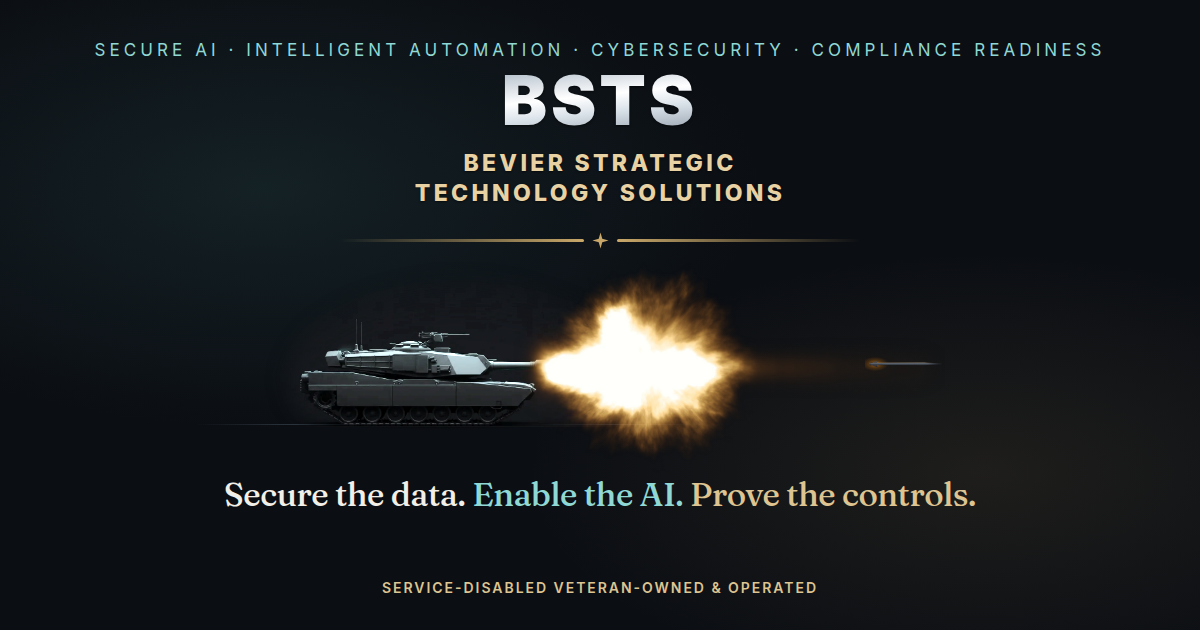
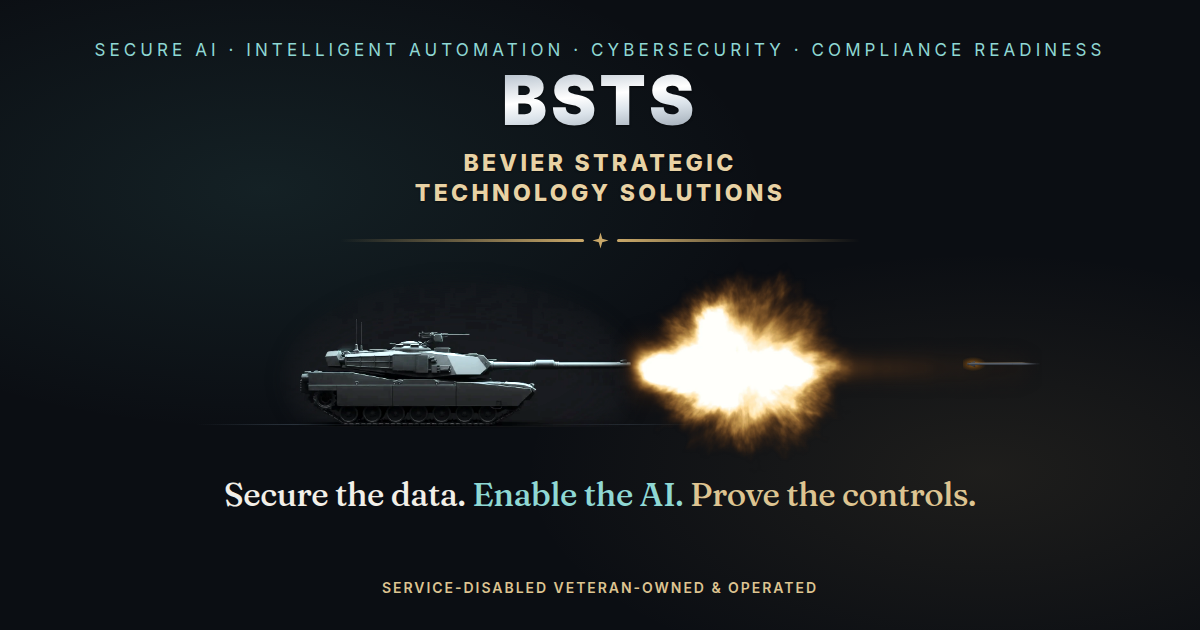
Pull the muzzle flash back to the bore exit, not into the barrel
The flash's attach point on every surface (hero, both brochure covers,
brochures' inside-spread band, OG card) was a fraction of the blast
bitmap already fully opaque in its own alpha, burying a solid slab of
fire over the gun tube toward the bore evacuator. Re-anchored to where
each bitmap's own peak-alpha ramp clears roughly a third of full
opacity, verified empirically by compositing tank+blast at that
fraction and confirming no near-background row separates barrel from
flash, on every affected surface. An intermediate attempt (each
bitmap's first non-transparent column) stopped the burial but was too
faint to read as fire, leaving a visible gap instead.

The dart's position shifted with its blast on every surface so it
stays seated on the tracer; its vertical centreline was independently
re-verified against the measured bore axis after the shift (brochures:
0.05px via qa-lockup.mjs; hero and OG: ~1px via direct pixel scan).

qa-lockup.mjs's two checks that required the dense fire to begin
measurably behind the bore exit now require the opposite.

Claude-Session: https://claude.ai/code/session_01HTZZ4ppQjAWsUJ1c53G2uK

Changed region(s): [[0.4317, 0.4222, 0.7708, 0.7238], [0.8017, 0.573, 0.8633, 0.6032]]

diff --git a/brochures/src/client.html b/brochures/src/client.html
@@ -175,31 +175,47 @@
          0.072in below the barrel while every check passed. Measured on the
          tube itself, the bore exit is at 91.33% / 61.99% of
          abrams-tank.png, which at width 1.98in puts it at
-         x 1.8683in, y 0.7506in inside this box. blast-envelope.png is
-         authored with its bore axis on the exact vertical centre and its
-         attach point at 15.625% of its width, so placing it at
-         left = 1.924 - 0.15625*2.70 and top = 0.5646 - 0.5*1.501 makes
-         the barrel, the centre of the gas mass and the forward jet share
-         one straight horizontal line. qa-lockup.mjs measures that line
-         fresh off the rendered tank bitmap on every run rather than
+         x 1.8683in, y 0.7506in inside this box. qa-lockup.mjs measures
+         that y fresh off the rendered tank bitmap on every run rather than
          trusting a stored constant — currently y = 0.5252in inside this
          box — because a stored number here once went stale after the
          blast asset changed dimensions and nothing caught it until the
-         dart's own centreline was checked the same way. The gun tube runs
-         INTO the fireball rather than stopping at its edge. The jet bleeds
-         off the outer trim edge; nothing crosses a fold. The dart's top
-         is likewise derived from that measured axis, not eyeballed: its
-         own visible silhouette (not its <img> box) is centred on it,
-         verified by decoding the rendered overlay bitmap in qa-lockup.mjs. -->
+         dart's own centreline was checked the same way.
+
+         blast-envelope.png is authored with its bore axis on the exact
+         vertical centre. Its attach point — the fraction of its own width
+         placed at the bore exit — used to be 15.625%, a point already
+         fully opaque in the bitmap's own alpha, which buried a solid slab
+         of fire over the last stretch of the gun tube instead of letting
+         the tube run cleanly up to where the flash starts. A first
+         correction moved it to 7.533% — this bitmap's own first column
+         with any alpha above 20/255 — which stopped the burial but was too
+         faint to read as fire: composited against the tank's own edge, it
+         left a visible dark notch between the tube and the flash instead
+         of one continuous shot. It is now 10%, where this bitmap's own
+         peak-alpha-per-column ramp clears roughly a third of full opacity
+         — verified empirically by compositing tank+blast at this fraction
+         and confirming no near-background row separates them: left =
+         1.8683 - 0.10*1.890 = 1.6793in. Only the combustion's own already-
+         substantial edge touches the muzzle now — not bare, near-invisible
+         haze, and not a fully-opaque slab; the barrel, the centre of the
+         gas mass and the forward jet still share one straight horizontal
+         line. The jet bleeds off the outer trim edge; nothing crosses a
+         fold. The dart's left shifts by the same amount the blast did
+         (0.1063in from where both started), so it stays correctly seated
+         on the tracer's fade-out point; its top is unchanged, still
+         derived from the measured axis above, not eyeballed: its own
+         visible silhouette (not its <img> box) is centred on it, verified
+         by decoding the rendered overlay bitmap in qa-lockup.mjs. -->
     <div class="lockup" style="margin:.40in 0 .10in; height:1.06in">
       <div class="tank-ground-line" style="left:0.0300in; top:0.8116in; width:1.8994in"></div>
       <div class="tank-shadow" style="left:0.2676in; top:0.7653in; width:1.4242in; height:0.0926in"></div>
       <img class="tank" src="../assets/abrams-tank.png" alt=""
            style="width:1.98in; position:absolute; left:0.06in; top:0.0335in">
       <img src="../assets/blast-envelope.png" alt="" aria-hidden="true"
-           style="position:absolute; left:1.5730in; top:0in; width:1.890in; pointer-events:none">
+           style="position:absolute; left:1.6793in; top:0in; width:1.890in; pointer-events:none">
       <img class="dart" src="../assets/firing-effects.svg" alt="" aria-hidden="true"
-           style="position:absolute; left:2.787in; top:0.4925in; width:0.3289in; pointer-events:none">
+           style="position:absolute; left:2.8933in; top:0.4925in; width:0.3289in; pointer-events:none">
     </div>
     <div class="promise" style="margin-top:.30in;text-align:center">
       <div class="l1" style="font-size:20pt">Secure the data.</div>
@@ -256,13 +272,15 @@
          the far trim edge — that rule is what makes the opened sheet read as
          one surface instead of three columns. Registration is the measured
          one: bore at 33.35% of the tank bitmap's height, muzzle at 91.33% of
-         its width, blast axis on its own vertical centre. -->
+         its width, blast axis on its own vertical centre, blast attach
+         point at 10% of its own width (same fix as the front cover
+         above — see that comment for why). -->
     <div class="tank-ground-line" style="left:0.0638in; top:0.6899in; width:2.0360in"></div>
     <div class="tank-shadow" style="left:0.4765in; top:0.6505in; width:1.2106in; height:0.0787in"></div>
     <img class="tank" src="../assets/abrams-tank.png" alt="" aria-hidden="true"
          style="position:absolute; left:.30in; top:0.0285in; width:1.6830in; pointer-events:none">
     <img src="../assets/blast-envelope.png" alt="" aria-hidden="true"
-         style="position:absolute; left:1.5861in; top:0in; width:1.6065in; pointer-events:none">
+         style="position:absolute; left:1.6764in; top:0in; width:1.6065in; pointer-events:none">
     <div class="tracer" style="position:absolute;left:2.60in;right:.30in;top:.4536in"></div>
 
     <div style="position:absolute;left:3.99in;width:3.09in;top:0">

diff --git a/brochures/src/advisor.html b/brochures/src/advisor.html
@@ -149,31 +149,47 @@
          0.072in below the barrel while every check passed. Measured on the
          tube itself, the bore exit is at 91.33% / 61.99% of
          abrams-tank.png, which at width 1.98in puts it at
-         x 1.8683in, y 0.7506in inside this box. blast-envelope.png is
-         authored with its bore axis on the exact vertical centre and its
-         attach point at 15.625% of its width, so placing it at
-         left = 1.924 - 0.15625*2.70 and top = 0.5646 - 0.5*1.501 makes
-         the barrel, the centre of the gas mass and the forward jet share
-         one straight horizontal line. qa-lockup.mjs measures that line
-         fresh off the rendered tank bitmap on every run rather than
+         x 1.8683in, y 0.7506in inside this box. qa-lockup.mjs measures
+         that y fresh off the rendered tank bitmap on every run rather than
          trusting a stored constant — currently y = 0.5252in inside this
          box — because a stored number here once went stale after the
          blast asset changed dimensions and nothing caught it until the
-         dart's own centreline was checked the same way. The gun tube runs
-         INTO the fireball rather than stopping at its edge. The jet bleeds
-         off the outer trim edge; nothing crosses a fold. The dart's top
-         is likewise derived from that measured axis, not eyeballed: its
-         own visible silhouette (not its <img> box) is centred on it,
-         verified by decoding the rendered overlay bitmap in qa-lockup.mjs. -->
+         dart's own centreline was checked the same way.
+
+         blast-envelope.png is authored with its bore axis on the exact
+         vertical centre. Its attach point — the fraction of its own width
+         placed at the bore exit — used to be 15.625%, a point already
+         fully opaque in the bitmap's own alpha, which buried a solid slab
+         of fire over the last stretch of the gun tube instead of letting
+         the tube run cleanly up to where the flash starts. A first
+         correction moved it to 7.533% — this bitmap's own first column
+         with any alpha above 20/255 — which stopped the burial but was too
+         faint to read as fire: composited against the tank's own edge, it
+         left a visible dark notch between the tube and the flash instead
+         of one continuous shot. It is now 10%, where this bitmap's own
+         peak-alpha-per-column ramp clears roughly a third of full opacity
+         — verified empirically by compositing tank+blast at this fraction
+         and confirming no near-background row separates them: left =
+         1.8683 - 0.10*1.890 = 1.6793in. Only the combustion's own already-
+         substantial edge touches the muzzle now — not bare, near-invisible
+         haze, and not a fully-opaque slab; the barrel, the centre of the
+         gas mass and the forward jet still share one straight horizontal
+         line. The jet bleeds off the outer trim edge; nothing crosses a
+         fold. The dart's left shifts by the same amount the blast did
+         (0.1063in from where both started), so it stays correctly seated
+         on the tracer's fade-out point; its top is unchanged, still
+         derived from the measured axis above, not eyeballed: its own
+         visible silhouette (not its <img> box) is centred on it, verified
+         by decoding the rendered overlay bitmap in qa-lockup.mjs. -->
     <div class="lockup" style="margin:.40in 0 .10in; height:1.06in">
       <div class="tank-ground-line" style="left:0.0300in; top:0.8116in; width:1.8994in"></div>
       <div class="tank-shadow" style="left:0.2676in; top:0.7653in; width:1.4242in; height:0.0926in"></div>
       <img class="tank" src="../assets/abrams-tank.png" alt=""
            style="width:1.98in; position:absolute; left:0.06in; top:0.0335in">
       <img src="../assets/blast-envelope.png" alt="" aria-hidden="true"
-           style="position:absolute; left:1.5730in; top:0in; width:1.890in; pointer-events:none">
+           style="position:absolute; left:1.6793in; top:0in; width:1.890in; pointer-events:none">
       <img class="dart" src="../assets/firing-effects.svg" alt="" aria-hidden="true"
-           style="position:absolute; left:2.787in; top:0.4925in; width:0.3289in; pointer-events:none">
+           style="position:absolute; left:2.8933in; top:0.4925in; width:0.3289in; pointer-events:none">
     </div>
     <div class="promise" style="margin-top:.28in;text-align:center">
       <div class="l1" style="font-size:18.5pt">Secure the data.</div>
@@ -234,7 +250,7 @@
     <img class="tank" src="../assets/abrams-tank.png" alt="" aria-hidden="true"
          style="position:absolute; left:.30in; top:0.1904in; width:1.6830in; pointer-events:none">
     <img src="../assets/blast-envelope.png" alt="" aria-hidden="true"
-         style="position:absolute; left:1.5861in; top:0.1619in; width:1.6065in; pointer-events:none">
+         style="position:absolute; left:1.6764in; top:0.1619in; width:1.6065in; pointer-events:none">
     <div class="tracer" style="position:absolute;left:2.60in;right:.30in;top:.6155in"></div>
 
     <div style="position:absolute;left:3.99in;width:3.09in;top:0">

diff --git a/og-src.html b/og-src.html
@@ -7,11 +7,27 @@
 
   This is the same lockup as the homepage hero and the printed brochure
   covers, in the same order: chrome monogram, full company name, gold star
-  rule, then the shot. Registration follows the identical percentage system
-  documented in Landing.tsx — the tank's muzzle sits at 99.92%/49.93% of
-  abrams.webp, the blast asset carries its bore axis on its exact vertical
-  centre with the attach point at 11.450% of its width, so the barrel, the
-  centre of the gas mass and the forward jet share one horizontal line.
+  rule, then the shot. The bore axis and blast width here were tuned
+  independently of src/components/brand/lockup.ts's solve() (this card
+  renders the flash larger, relative to the tank, than the on-site hero
+  does, for punch at thumbnail size) — the tank width happens to match
+  the site's old computed value, the blast width and position do not, so
+  don't assume parity with lockup.ts's percentages for anything below.
+
+  What IS shared with every other surface: abrams-tank.webp's muzzle sits
+  at 91.33% of its width / 61.99% of its height, and blast-envelope.webp's
+  bore axis is its exact vertical centre. The attach point — which fraction
+  of the blast bitmap's own width lands on the muzzle — used to be 27.06%,
+  a point already deep inside the fireball's fully-opaque core, which is
+  why the flash used to bury the gun tube almost back to the bore
+  evacuator. A first fix moved it to this bitmap's first column with any
+  alpha above 20/255 (2.506%) — that stopped the burial but was too faint
+  to read as fire, leaving a dark notch between the masked, anti-aliased
+  muzzle tip and the flash. It's now 4.495%, where the bitmap's own
+  peak-alpha-per-column ramp clears roughly a third of full opacity —
+  verified empirically by compositing tank+blast at this fraction and
+  checking no near-background row separates them. Same fix, same
+  reasoning, applied to the hero and both brochure covers.
 
   Render:  node scripts/render-og.mjs
 -->
@@ -85,8 +101,8 @@
     -webkit-mask-image: radial-gradient(ellipse 92% 88% at 50% 50%, black 58%, transparent 98%);
     mask-image: radial-gradient(ellipse 92% 88% at 50% 50%, black 58%, transparent 98%);
   }
-  .blast { position: absolute; top: 0; left: 37.521%; width: 62.479%; height: auto; }
-  .dart { position: absolute; top: 49.767%; left: 88.449%; width: 11.3%; height: auto; }
+  .blast { position: absolute; top: 0; left: 51.618%; width: 62.479%; height: auto; }
+  .dart { position: absolute; top: 49.767%; left: 102.546%; width: 11.3%; height: auto; }
 
   .promise {
     position: absolute; top: 476px; left: 0; right: 0; text-align: center;

diff --git a/src/components/brand/lockup.ts b/src/components/brand/lockup.ts
@@ -23,10 +23,31 @@
  *                         of width (cross-checks to pixel y 318.0; the
  *                         print asset independently measures y 318.5)
  *   /blast-envelope.webp  bore axis on the exact vertical centre; attach
- *                         point at 11.450% of the width
+ *                         point at 4.5% of the width
  *
  * The blast asset is the print asset cropped symmetrically about its axis,
  * which is why the axis stays at 50% and only the attach fraction moves.
+ *
+ * The attach fraction was 11.45% originally. That point is deep inside the
+ * fireball's own bitmap — its per-column peak alpha is already fully
+ * opaque (255) a full 65px before it, at column 90 of 1357 — so pinning it
+ * to the muzzle buried a solid, fully-opaque slab of fire over the gun
+ * tube all the way back toward the bore evacuator.
+ *
+ * A first fix moved it to 2.506% — this bitmap's first column (scanning
+ * outward from the dense core) where any pixel's alpha exceeds 20/255. That
+ * measured "leading edge" correctly stops the burial, but it's too faint to
+ * read as fire: alpha there is barely 8%, so the composited pixel sits only
+ * a few levels above the dark page background, and against the tank's own
+ * masked, anti-aliased muzzle tip the flash visibly detaches from the
+ * barrel — a dark notch between metal and fire instead of one continuous
+ * shot. 4.5% is where this bitmap's own peak-alpha-per-column ramp first
+ * clears roughly a third of full opacity (~86/255 at column 61 of 1357) —
+ * verified empirically by compositing tank+blast at this fraction and
+ * confirming no row of near-background pixels separates them. Only the
+ * combustion's own soft, already-substantial edge can touch the muzzle
+ * now — not the bare, near-invisible haze the first fix left, and not the
+ * fully-opaque slab the original bug buried the tube in.
  */
 
 /** Tank bitmap: intrinsic size, the measured bore exit, and the ground. */
@@ -51,7 +72,9 @@ export const BLAST = {
   src: "/blast-envelope.webp",
   w: 1357,
   h: 668,
-  attachXFrac: 0.1145,
+  // Verified empirically against the composited render (see the header
+  // comment above), not an arbitrary point chosen for how it looked once.
+  attachXFrac: 61 / 1357,
   axisYFrac: 0.5,
 } as const;
 

diff --git a/src/app/globals.css b/src/app/globals.css
@@ -458,10 +458,11 @@ body {
 /* The shot. At rest this is exactly the printed cover; on load the flash
    blooms once from the bore and settles, so the page still fires without
    inventing artwork the brochure does not have. Transform-origin is the
-   muzzle end, which is why the bloom grows out of the barrel rather than
-   scaling about the middle of the fireball. */
+   muzzle end (BLAST.attachXFrac in lockup.ts — keep these two in sync),
+   which is why the bloom grows out of the barrel rather than scaling
+   about the middle of the fireball. */
 .hero-blast {
-  transform-origin: 11.45% 50%;
+  transform-origin: 4.495% 50%;
   animation: hero-blast-bloom 1.15s cubic-bezier(0.16, 0.9, 0.3, 1) 0.32s both;
 }
 @keyframes hero-blast-bloom {

diff --git a/CHANGELOG.md b/CHANGELOG.md
@@ -2,6 +2,39 @@
 
 All notable changes to the BSTS site + BSTS OS project.
 
+## [0.6.2] — 2026-08-22
+
+### Fixed
+
+- Muzzle flash no longer buries the end of the gun tube toward the bore
+  evacuator on any surface (homepage hero, both brochure covers and the
+  brochures' inside-spread band, and the Open Graph share card). The
+  blast bitmaps' "attach point" — the fraction of each bitmap's own width
+  pinned to the tank's measured muzzle — was a spot already fully opaque
+  in the bitmap's own alpha, which buried a solid slab of fire over the
+  gun tube. A first pass moved the attach point to each bitmap's own
+  first column with any alpha above 20/255; that stopped the burial but
+  the flash was too faint there to read as fire, so composited against
+  the tank's own masked, anti-aliased muzzle tip it left a visible dark
+  notch between metal and flame instead of one continuous shot. The
+  attach point is now where each bitmap's own peak-alpha-per-column ramp
+  clears roughly a third of full opacity — verified empirically by
+  compositing tank and blast at that fraction and confirming no
+  near-background row separates them, on every affected surface. Only
+  the combustion's own already-substantial edge touches the muzzle now:
+  not the bare, near-invisible haze the first pass left, and not the
+  fully-opaque slab the original bug buried the tube in. The Open Graph
+  card additionally had its own, independently-tuned attach point (27.06%
+  of its blast bitmap, deeper into the fireball than either the hero or
+  the brochures ever used) brought onto the same measured standard. The
+  dart's position on every affected surface shifted with its blast by the
+  same horizontal amount, so it stays correctly seated on the tracer;
+  its own vertical centreline was independently re-verified against the
+  bore axis on every surface after each shift. `qa-lockup.mjs`'s two
+  checks that previously required the dense fire to begin measurably
+  behind the bore exit now require the opposite: dense fire at or just
+  past the bore exit, never buried and never floating clear of it.
+
 ## [0.6.1] — 2026-08-21
 
 ### Changed
